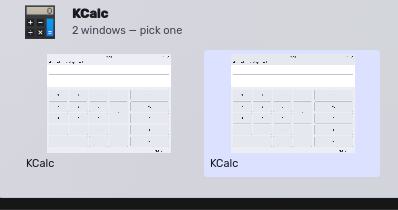
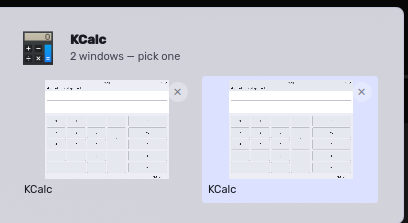
feat: a window's picture can close it, whichever card it is on
The grouped card's cells had a close button and the single window's picture
had none, which is the commonest case there is: most applications on a
taskbar have one window, and the one card you cannot close from was the one
you reach most often.

One CloseButton now, used by both, and the single picture is a target as the
cells are -- a picture that highlights under the pointer and does nothing
when clicked is worse than one that does not highlight.

It is drawn faintly rather than only under the pointer. A cross nobody can
see is a feature nobody finds, and the risk the hover gate was guarding
against -- a row of bright crosses over something somebody is only reading --
is answered just as well by dimming it.

diff --git a/shell/widgets/tasks/Widget.qml b/shell/widgets/tasks/Widget.qml
@@ -536,6 +536,52 @@ BarWidget {
             implicitWidth: Math.max(260, body.implicitWidth + 24)
             implicitHeight: body.implicitHeight + 14
 
+            // Closing a window from its own picture, as every taskbar preview
+            // does -- and from the single window's picture too, which had none
+            // and is the commonest case there is.
+            //
+            // Drawn faintly rather than only under the pointer. A cross nobody
+            // can see is a feature nobody finds, and this one is small, in a
+            // corner, and on a card that is already a deliberate hover; the
+            // risk it guards against is a row of bright crosses over something
+            // somebody is only reading, which dimming answers just as well.
+            component CloseButton: Rectangle {
+                id: closeButton
+
+                required property string uuid
+
+                anchors.top: parent.top
+                anchors.right: parent.right
+                anchors.margins: 6
+                width: 20
+                height: 20
+                radius: 10
+                opacity: closePointer.hovered ? 1 : 0.55
+                color: closePointer.hovered ? Theme.error : Theme.alpha(Theme.background, 0.8)
+                Behavior on opacity { NumberAnimation { duration: Theme.durationFast } }
+
+                Glyph {
+                    anchors.centerIn: parent
+                    name: "close"
+                    fallback: "window-close"
+                    size: 13
+                    color: closePointer.hovered ? Theme.errorFg : Theme.foreground
+                }
+
+                HoverHandler { id: closePointer; cursorShape: Qt.PointingHandCursor }
+                TapHandler {
+                    onTapped: {
+                        WindowsService.close(closeButton.uuid);
+                        // The card stays: closing one of five windows is
+                        // usually the first of several, and a card that
+                        // vanished would make the second a fresh hunt. It
+                        // closes itself when the last one goes, because the
+                        // group does.
+                        root.cancelClose();
+                    }
+                }
+            }
+
             // The pointer being on the card is what keeps the card. Declared
             // here rather than on each cell so the gaps between them count as
             // being on it too.
@@ -557,16 +603,36 @@ BarWidget {
 
                 // One window: the picture is the card, as big as it is worth
                 // drawing, and the title sits under the application below.
-                WindowThumbnail {
+                Item {
+                    id: sole
+
                     visible: preview.windows.length === 1
                     width: 300
                     height: 169
-                    windowId: preview.windows[0]?.uuid ?? ""
-                    iconName: preview.item?.iconName ?? ""
-                    iconFile: preview.item?.iconFile ?? ""
-                    iconScale: 0.3
-                    sourceAspect: WindowEvents.aspectOf(preview.windows[0])
-                    live: preview.windows.length === 1
+
+                    WindowThumbnail {
+                        anchors.fill: parent
+                        windowId: preview.windows[0]?.uuid ?? ""
+                        iconName: preview.item?.iconName ?? ""
+                        iconFile: preview.item?.iconFile ?? ""
+                        iconScale: 0.3
+                        sourceAspect: WindowEvents.aspectOf(preview.windows[0])
+                        live: preview.windows.length === 1
+                        opacity: preview.windows[0]?.minimized ? 0.55 : 1
+                    }
+
+                    CloseButton { uuid: preview.windows[0]?.uuid ?? "" }
+
+                    // The picture behaves as the cells below do: the thing
+                    // itself is the target. Under the close button, which
+                    // takes its own taps first.
+                    HoverHandler { cursorShape: Qt.PointingHandCursor }
+                    TapHandler {
+                        onTapped: {
+                            WindowsService.activate(preview.windows[0]?.uuid ?? "");
+                            root.popoutVisible = false;
+                        }
+                    }
                 }
 
                 // The application, once, however many windows it has.
@@ -658,43 +724,7 @@ BarWidget {
                                 font.italic: cell.modelData.minimized
                             }
 
-                            // Closing a window from its own picture, as every
-                            // taskbar preview does. Only under the pointer:
-                            // a row of crosses on a card somebody is only
-                            // reading is an invitation to lose a window.
-                            Rectangle {
-                                id: closeButton
-                                anchors.top: parent.top
-                                anchors.right: parent.right
-                                anchors.margins: 6
-                                width: 20
-                                height: 20
-                                radius: 10
-                                visible: cellPointer.hovered
-                                color: closePointer.hovered ? Theme.error : Theme.alpha(Theme.background, 0.75)
-
-                                Glyph {
-                                    anchors.centerIn: parent
-                                    name: "close"
-                                    fallback: "window-close"
-                                    size: 13
-                                    color: closePointer.hovered ? Theme.errorFg : Theme.foreground
-                                }
-
-                                HoverHandler { id: closePointer; cursorShape: Qt.PointingHandCursor }
-                                TapHandler {
-                                    onTapped: {
-                                        WindowsService.close(cell.modelData.uuid);
-                                        // The card stays: closing one of five
-                                        // windows is usually the first of
-                                        // several, and a card that vanished
-                                        // would make the second a fresh hunt.
-                                        // It closes itself when the last one
-                                        // goes, because the group does.
-                                        root.cancelClose();
-                                    }
-                                }
-                            }
+                            CloseButton { uuid: cell.modelData.uuid ?? "" }
 
                             HoverHandler { id: cellPointer; cursorShape: Qt.PointingHandCursor }
                             TapHandler {
